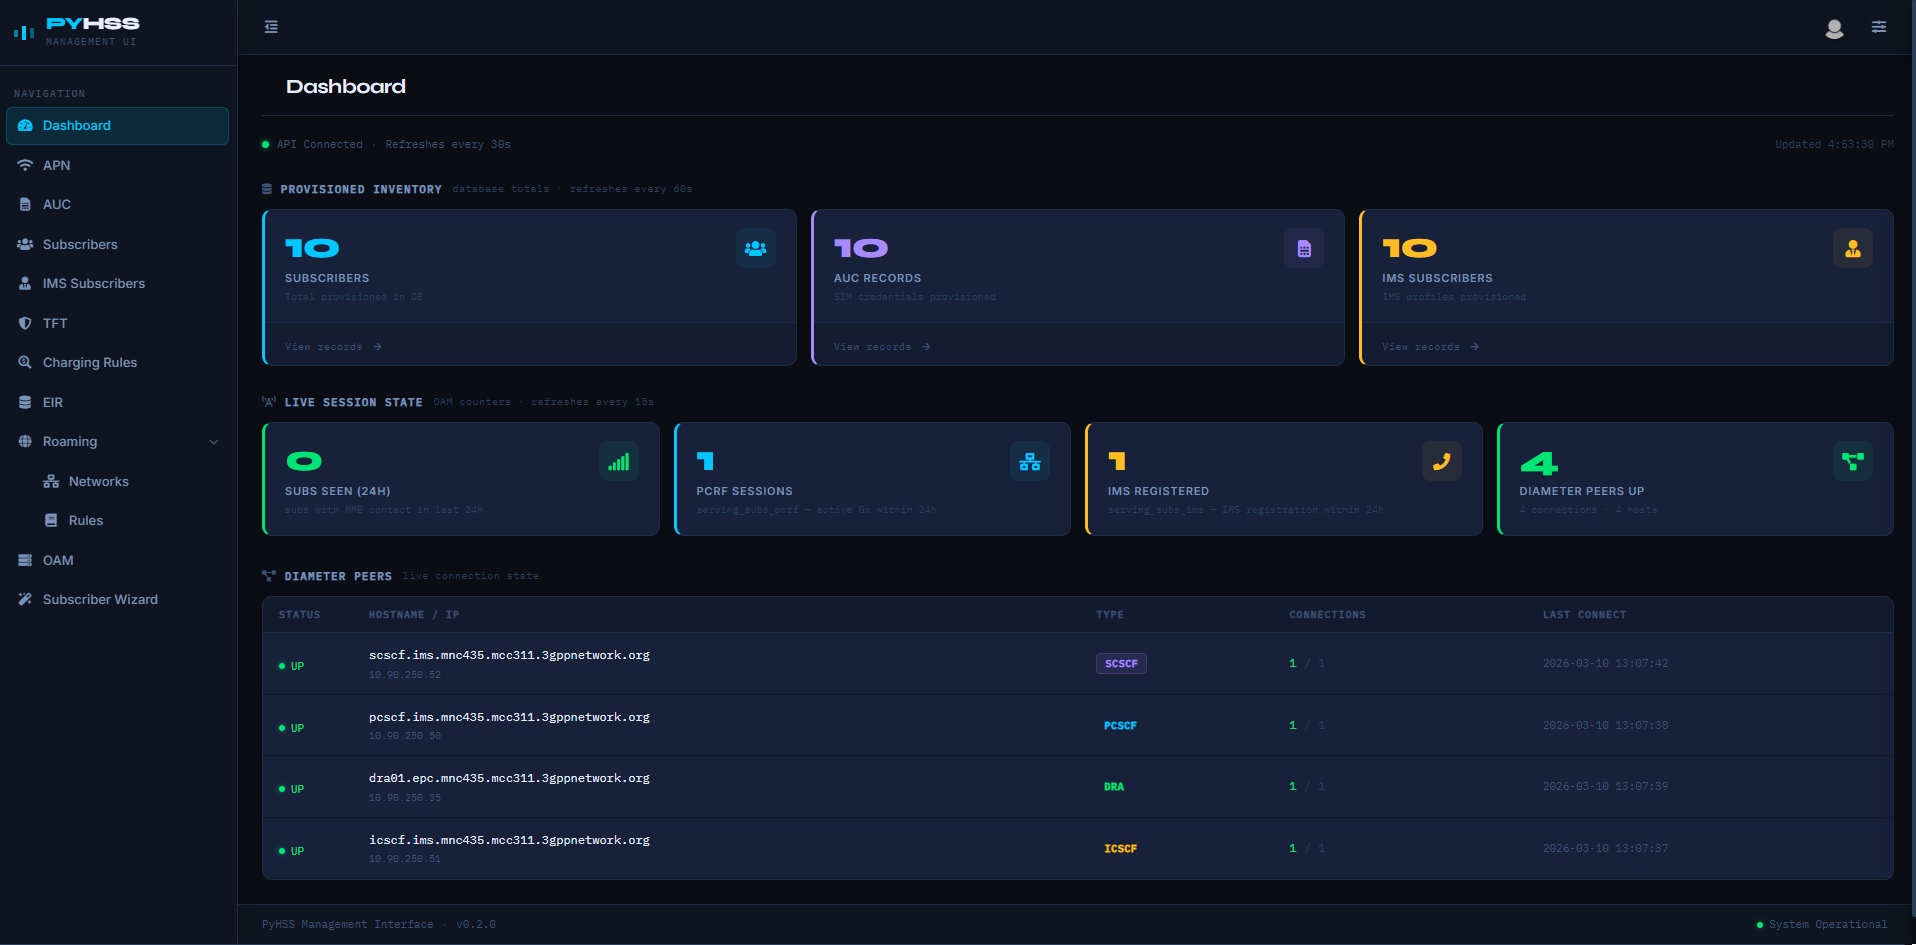
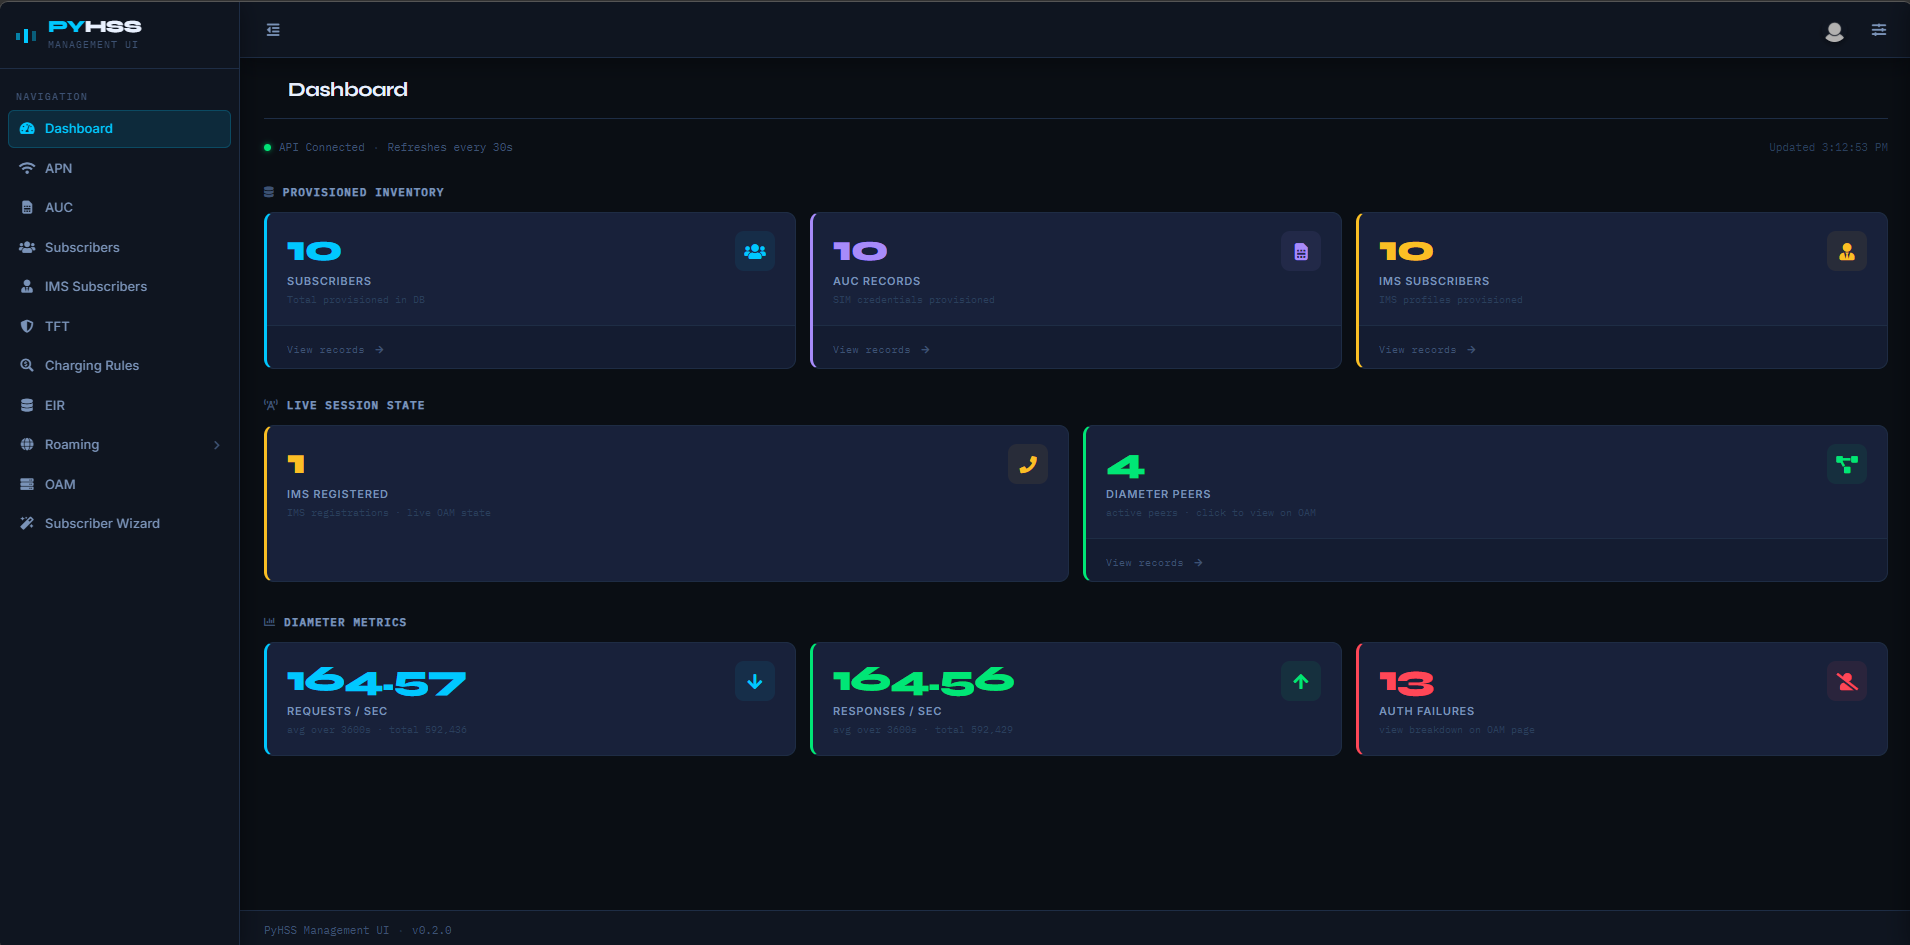
new screenshots and Readme updates

diff --git a/README.md b/README.md
@@ -71,4 +71,11 @@ Removed  SGW-C as a required field in the APN section.
 fixed bug #6 (Bug in APN PGW and SGW), Removed PGW-C as a required field in the APN section, bumped version to 0.1.4
 
 New web-ui interface, New Dashboard, new OAM features like rollback. added {{UE_IP}} option to TFT Gen, and  many bugs fixes. V0.2.0   
+ added support for Prometheus metrics  
+ just add a new pyhss job to your prometheus.yml
 
+   '- job_name: 'pyhss'
+    static_configs:
+      - targets: ['localhost:9191']'
+
+ **URI's and API Keys for PyHSS and Prometheus are now set in the settings panel 
